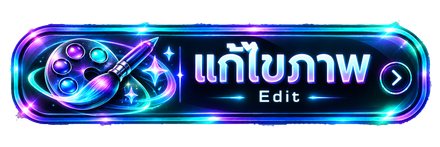
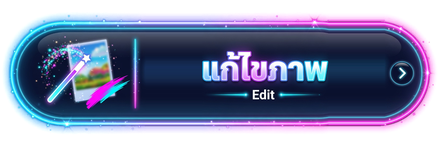
The studio's six tab plates are redrawn as one matching set, 3D included
The 3D studio's entry in the studio rail was the only text pill among five
pieces of artwork. All six plates are now one set: generated from one prompt
on black with only the icon and the Thai/English label changed (สร้างภาพ,
สร้างวิดีโอ, แก้ไขภาพ, ลิปซิงค์, สร้างเพลง, สร้างโมเดล 3D), widened to the
same 3.93:1 by repeating a column of plain glass on each side of the label so
the label, icon and arrow are never stretched, keyed off black with the glow
kept as light, and resampled premultiplied into the 440x147 canvas.

The 3D plate links to /generate/3d, or stays a dimmed button with the reason
while no 3D model can be ordered, as before.

diff --git a/src/app/(main)/generate/page.tsx b/src/app/(main)/generate/page.tsx
@@ -690,11 +690,13 @@ type Placement = { up: boolean; left: number; width: number; maxHeight: number }
  *
  * Only files that are actually in public/studio-tabs belong here — a missing
  * one falls back to a text pill, which is better than an <Image> pointed at a
- * 404. Each is a 440px-wide PNG with its own Thai and English label drawn in,
- * downscaled from a ~2,000px original: the button is ~190px on screen, so the
- * full-size art was 1.5MB to draw something a tenth of that. Downscale with
- * premultiplied alpha — these plates are transparent around a neon edge, and
- * a plain resize drags the transparent black into the glow.
+ * 404. Each is a 440px-wide PNG with its own Thai and English label drawn in;
+ * the button is ~190px on screen. The six (these five and MODEL3D_ART) are one
+ * set: generated from one prompt on black with only the icon and label
+ * changed, then widened to the same 3.93:1 by repeating a column of plain
+ * glass beside the label, the black keyed out with the glow kept as light, and
+ * downscaled premultiplied — a plain resize drags the transparent black into
+ * the glow. Redraw one, redraw it the same way, or it stands out of the set.
  */
 /** The second line on each plate, matching what the artwork has drawn in. */
 const TAB_EN: Record<TabType, string> = {
@@ -708,6 +710,9 @@ const TAB_ART: Partial<Record<TabType, string>> = {
   lipsync: "/studio-tabs/tab-lipsync.png",
   audio: "/studio-tabs/tab-music.png",
 };
+
+/** The 3D studio's plate: drawn in the same set, but it links to its own page. */
+const MODEL3D_ART = "/studio-tabs/tab-model3d.png";
 
 function Popover({
   id, open, onToggle, label, value, children, align = "left", width = 300,
@@ -2374,22 +2379,14 @@ export default function GeneratePage() {
               canvas fits a scene you turn around. Dimmed with the reason, like
               the tabs above, while no 3D model can be ordered. */}
           {model3dBlocked ? (
-            <button type="button" className="rp-tab-plate" data-active="false" disabled title={model3dBlocked}>
-              <span className="rp-tab-plate-icon" aria-hidden="true">◆</span>
-              <span className="rp-tab-plate-text">
-                <span className="rp-tab-plate-th">สร้างโมเดล 3D</span>
-                <span className="rp-tab-plate-en">3D Model</span>
-              </span>
-              <span className="rp-tab-plate-go" aria-hidden="true">&rsaquo;</span>
+            <button type="button" className="rp-tab-art" data-active="false" disabled
+              title={model3dBlocked} aria-label="สร้างโมเดล 3D">
+              <Image src={MODEL3D_ART} alt="สร้างโมเดล 3D" width={440} height={147} sizes="220px" />
             </button>
           ) : (
-            <Link href="/generate/3d" className="rp-tab-plate" data-active="false" style={{ textDecoration: "none" }}>
-              <span className="rp-tab-plate-icon" aria-hidden="true">◆</span>
-              <span className="rp-tab-plate-text">
-                <span className="rp-tab-plate-th">สร้างโมเดล 3D</span>
-                <span className="rp-tab-plate-en">3D Model</span>
-              </span>
-              <span className="rp-tab-plate-go" aria-hidden="true">&rsaquo;</span>
+            <Link href="/generate/3d" className="rp-tab-art" data-active="false"
+              title="สร้างโมเดล 3D" aria-label="สร้างโมเดล 3D">
+              <Image src={MODEL3D_ART} alt="สร้างโมเดล 3D" width={440} height={147} sizes="220px" />
             </Link>
           )}
         </div>
